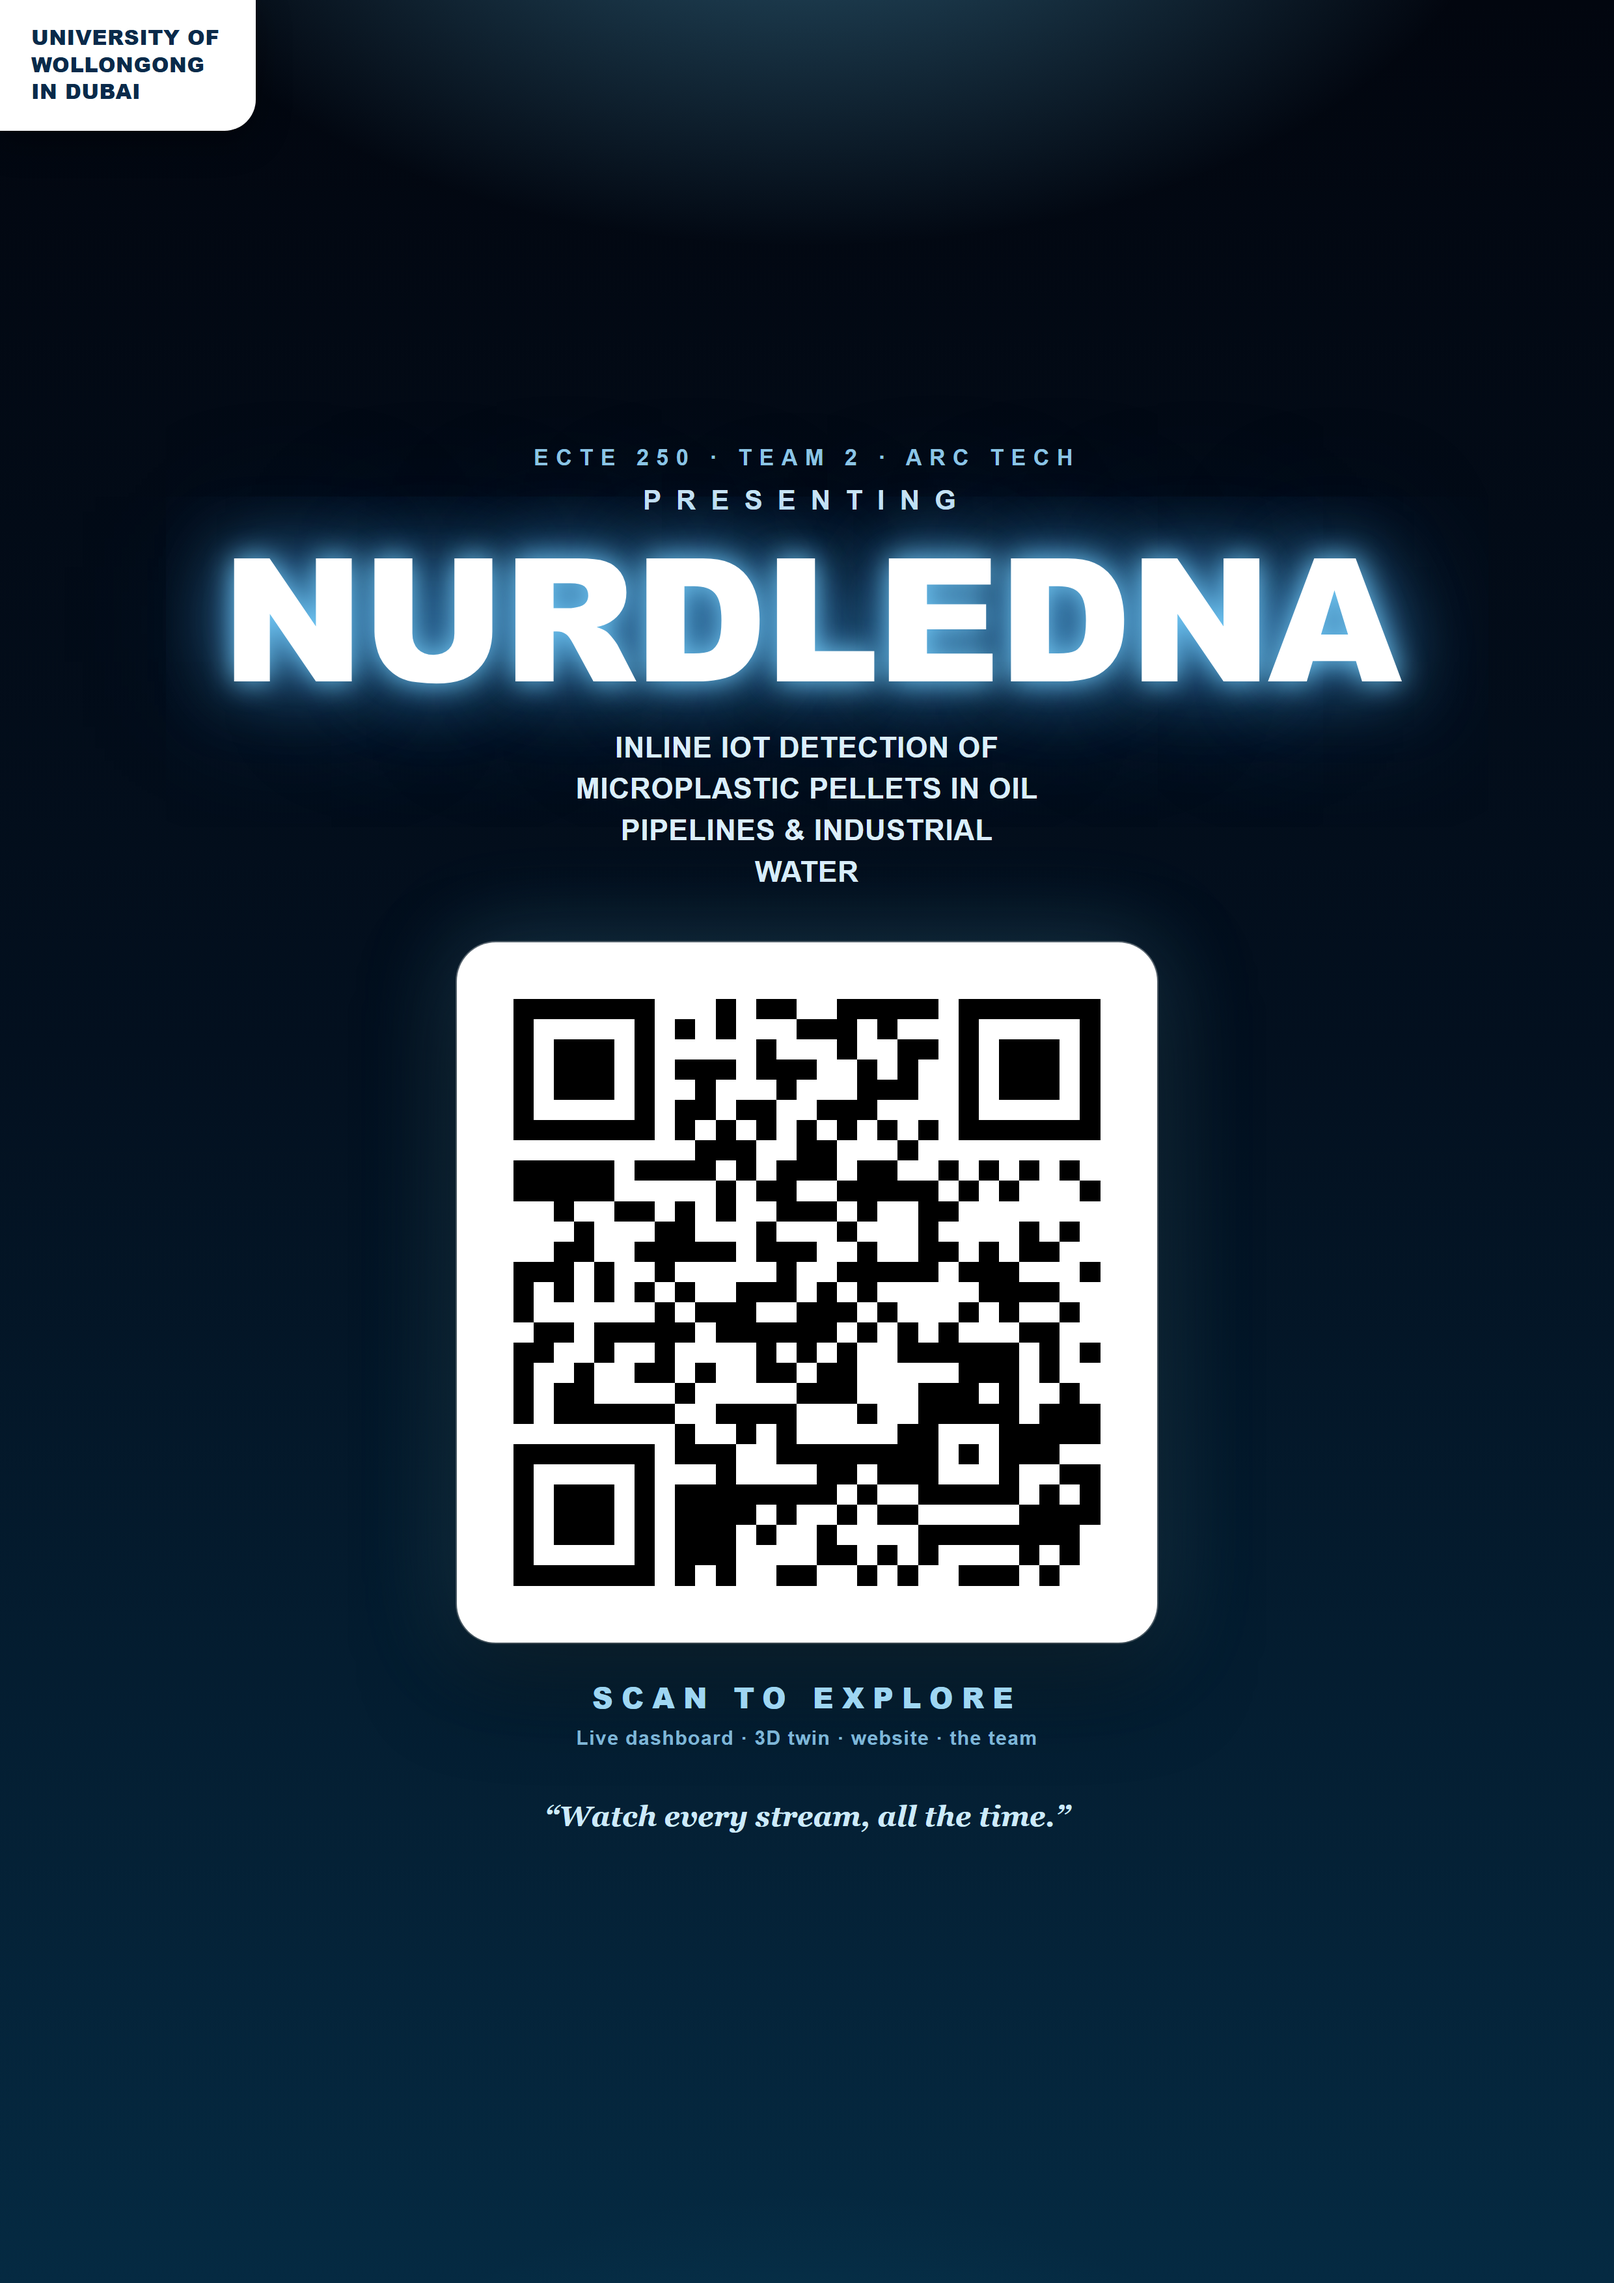
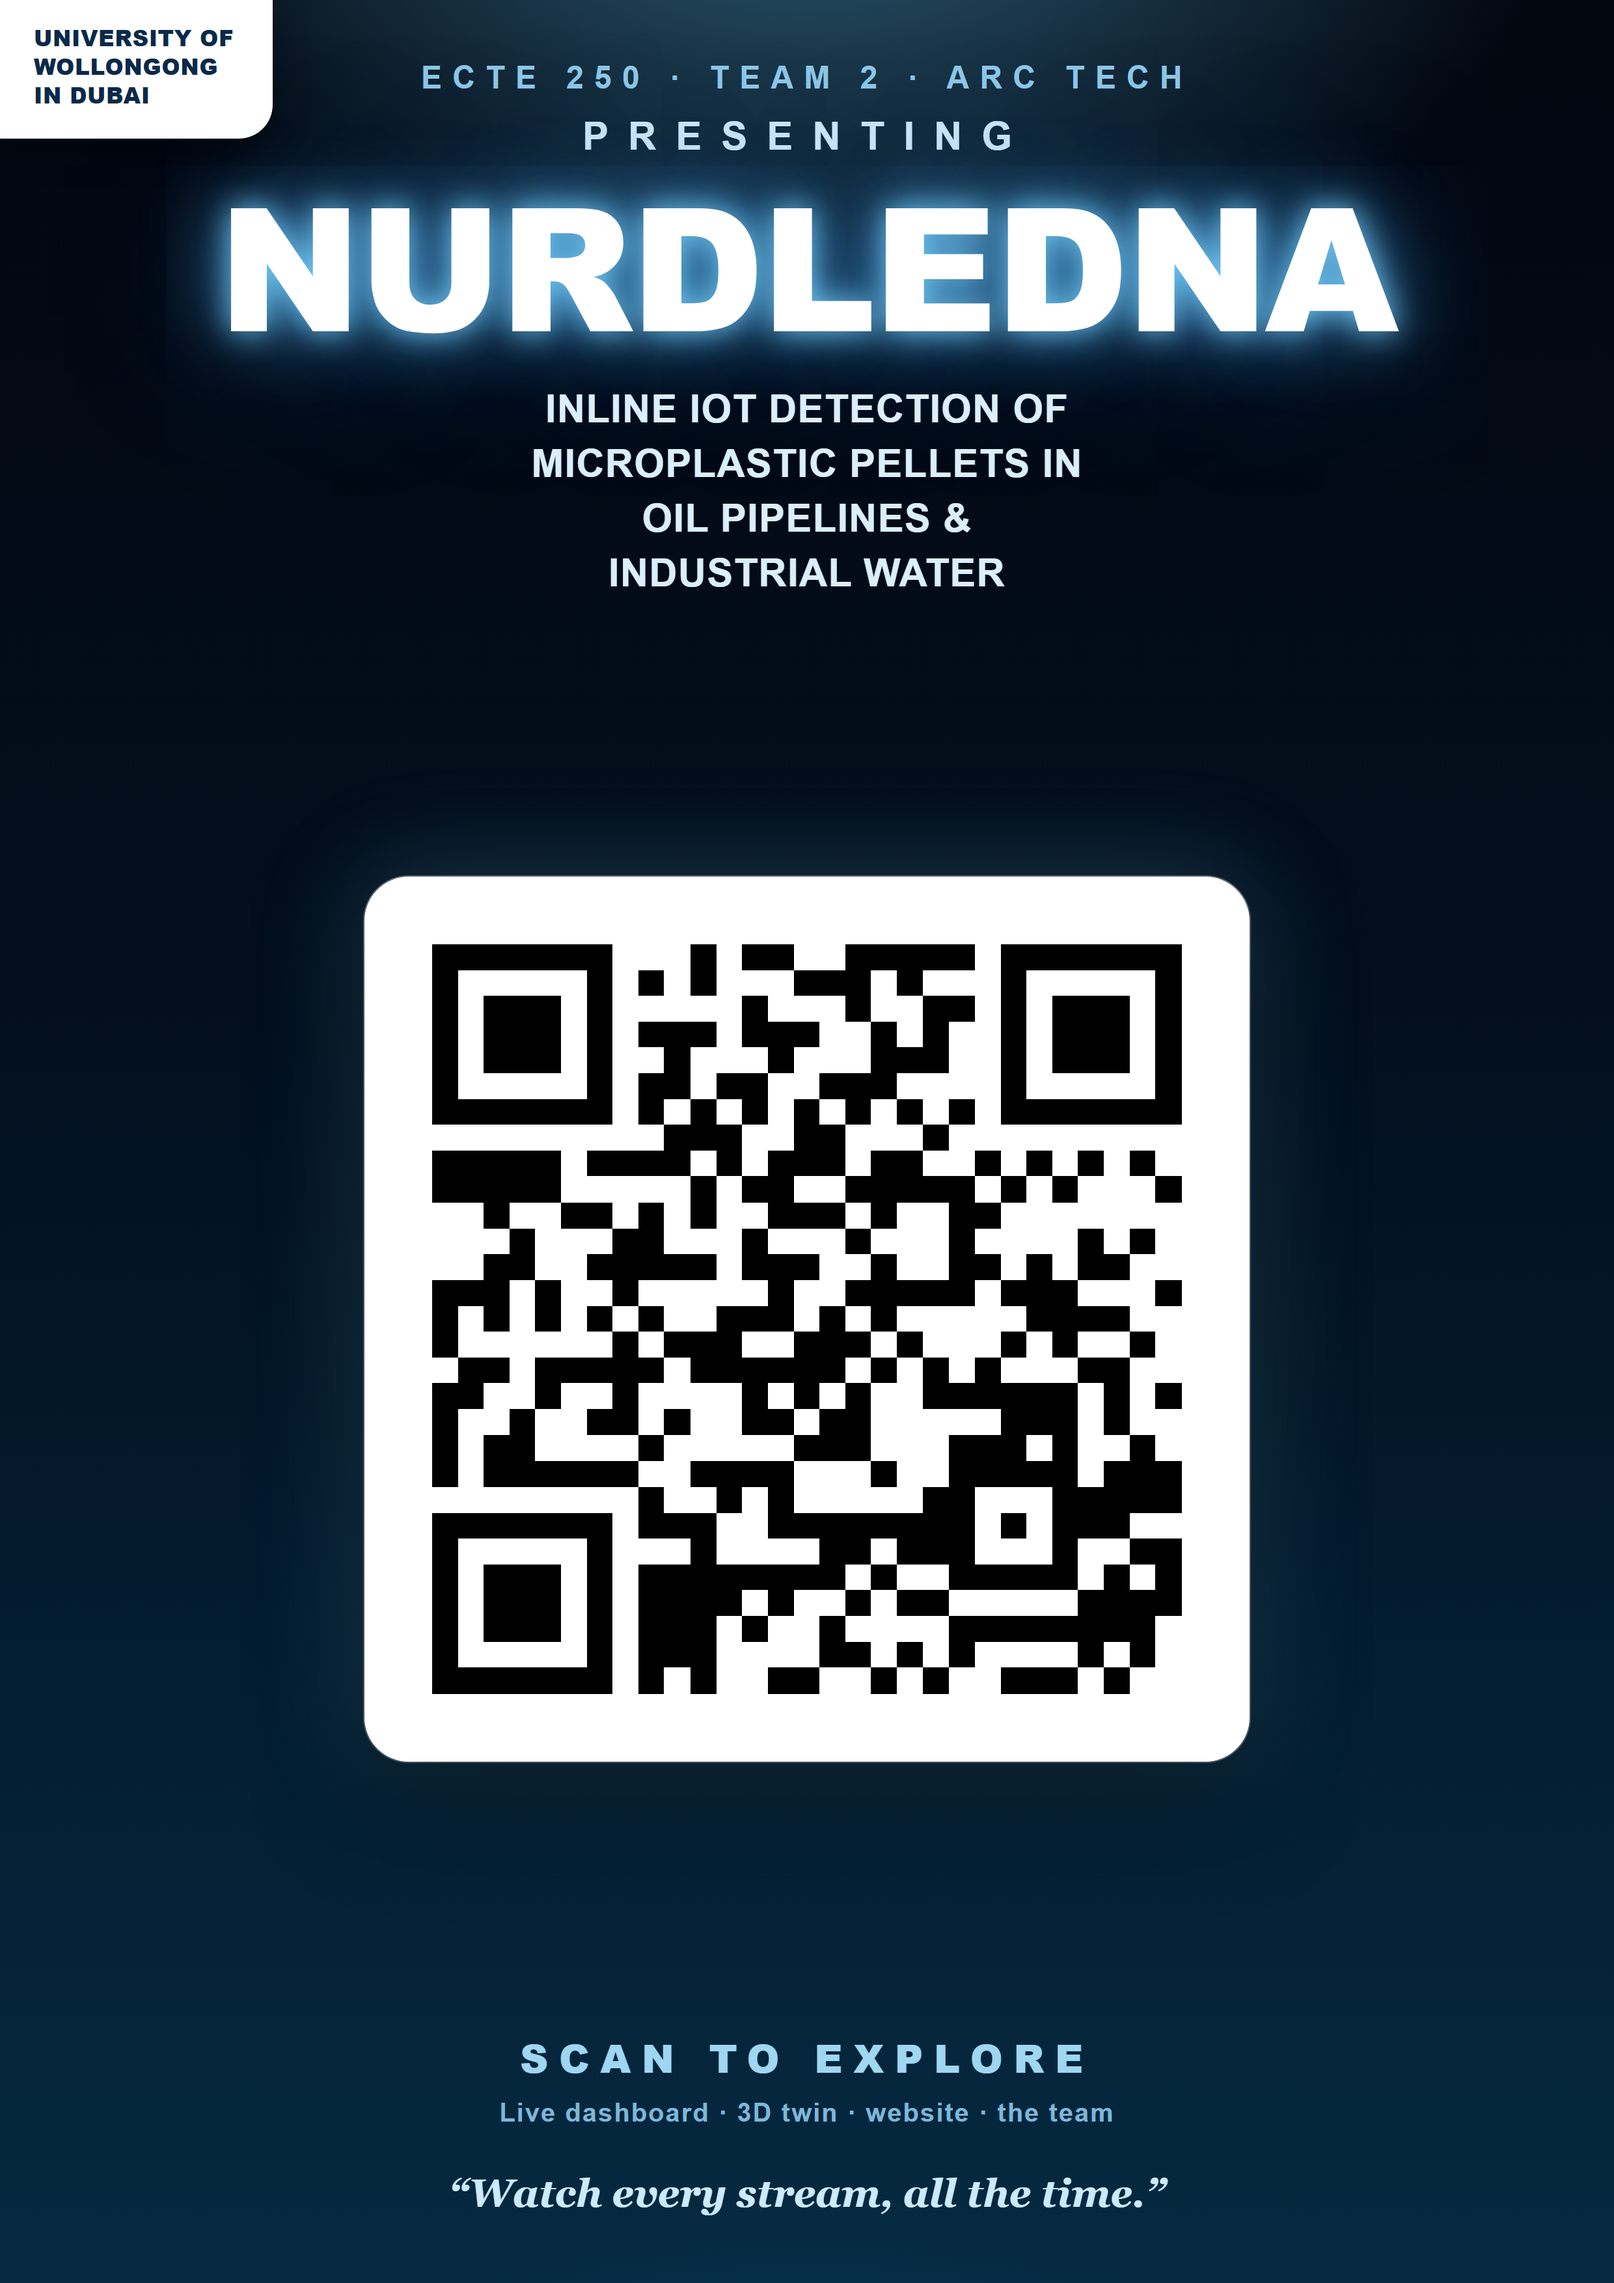
assets(posters): scale QR card to fill the page (larger QR + text)

diff --git a/Posters/qr-poster.html b/Posters/qr-poster.html
@@ -12,47 +12,55 @@
     -webkit-print-color-adjust: exact; print-color-adjust: exact;
     color:#eaf6ff;
     background:
-      radial-gradient(1000px 600px at 50% -8%, rgba(96,196,240,.45), transparent 55%),
-      radial-gradient(820px 760px at 50% 122%, rgba(28,120,150,.30), transparent 60%),
+      radial-gradient(1050px 640px at 50% -6%, rgba(96,196,240,.45), transparent 56%),
+      radial-gradient(880px 820px at 50% 124%, rgba(28,120,150,.30), transparent 60%),
       linear-gradient(180deg, #02060f 0%, #03101f 46%, #052a42 100%);
     display:flex; align-items:center; justify-content:center;
-    min-height:100vh; padding:40px 26px;
+    min-height:100vh; padding:48px 28px;
   }
   .uow {
     position:absolute; top:0; left:0;
     background:#fff; color:#0a2a4a;
-    padding:18px 28px 20px 24px; border-radius:0 0 24px 0;
-    font:800 16px/1.3 Arial, sans-serif; letter-spacing:.02em; text-transform:uppercase; text-align:left;
+    padding:18px 30px 22px 26px; border-radius:0 0 26px 0;
+    font:800 17px/1.3 Arial, sans-serif; letter-spacing:.02em; text-transform:uppercase; text-align:left;
     box-shadow:0 8px 26px rgba(0,0,0,.35);
   }
-  .card { width:100%; max-width:900px; text-align:center; }
-  .eyebrow { font:700 17px/1 Arial; letter-spacing:.34em; color:#8fc7e6; text-transform:uppercase; margin-bottom:14px; }
-  .presenting { font:700 21px/1 Arial; letter-spacing:.55em; color:#cfe8f6; text-transform:uppercase; margin-bottom:16px; }
+  .card {
+    width:100%; max-width:940px; min-height: calc(100vh - 96px);
+    display:flex; flex-direction:column; justify-content:space-between; align-items:center;
+    text-align:center;
+  }
+  .eyebrow { font:700 24px/1 Arial; letter-spacing:.34em; color:#8fc7e6; text-transform:uppercase; margin-bottom:18px; }
+  .presenting { font:700 30px/1 Arial; letter-spacing:.5em; color:#cfe8f6; text-transform:uppercase; margin-bottom:22px; }
   .wordmark {
     font-family:"Arial Black", Inter, sans-serif; font-weight:900;
     font-size: clamp(64px, 13vw, 132px); letter-spacing:-2px; line-height:.92; color:#fff;
     white-space:nowrap;
-    text-shadow: 0 0 22px rgba(120,210,255,.95), 0 0 56px rgba(80,180,255,.7), 0 0 110px rgba(60,150,230,.5);
+    text-shadow: 0 0 24px rgba(120,210,255,.95), 0 0 60px rgba(80,180,255,.7), 0 0 120px rgba(60,150,230,.5);
   }
-  .subtitle { font:700 22px/1.45 Arial; letter-spacing:.02em; color:#dbeefb; text-transform:uppercase; margin:26px auto 38px; max-width:30ch; }
+  .subtitle { font:700 30px/1.4 Arial; letter-spacing:.02em; color:#dbeefb; text-transform:uppercase; margin:30px auto 0; max-width:26ch; }
   .qr-panel {
-    background:#fff; border-radius:30px; padding:34px; display:inline-block;
-    box-shadow:0 26px 70px rgba(0,0,0,.55), 0 0 0 1px rgba(255,255,255,.35), 0 0 70px rgba(96,196,240,.28);
+    background:#fff; border-radius:34px; padding:40px; display:inline-block;
+    box-shadow:0 28px 80px rgba(0,0,0,.55), 0 0 0 1px rgba(255,255,255,.35), 0 0 80px rgba(96,196,240,.30);
   }
-  .qr-panel img { display:block; width:470px; height:470px; image-rendering:pixelated; }
-  .scan { margin-top:26px; font:800 22px/1 Arial; letter-spacing:.30em; color:#9fd6f2; text-transform:uppercase; }
-  .scan small { display:block; font:600 15px/1.5 Arial; letter-spacing:.05em; color:#7fb6d6; margin-top:9px; text-transform:none; }
-  .tagline { margin-top:34px; font:italic 600 22px/1.4 Georgia, serif; color:#cdeafa; }
+  .qr-panel img { display:block; width:600px; height:600px; image-rendering:pixelated; }
+  .scan { font:800 30px/1 Arial; letter-spacing:.28em; color:#9fd6f2; text-transform:uppercase; }
+  .scan small { display:block; font:600 20px/1.5 Arial; letter-spacing:.05em; color:#7fb6d6; margin-top:12px; text-transform:none; }
+  .tagline { margin-top:26px; font:italic 600 30px/1.4 Georgia, serif; color:#cdeafa; }
 </style></head>
 <body>
   <div class="uow">University&nbsp;of<br>Wollongong<br>in&nbsp;Dubai</div>
   <div class="card">
-    <div class="eyebrow">ECTE&nbsp;250 &middot; Team&nbsp;2 &middot; Arc&nbsp;Tech</div>
-    <div class="presenting">Presenting</div>
-    <div class="wordmark">NURDLEDNA</div>
-    <div class="subtitle">Inline IoT detection of microplastic pellets in oil pipelines &amp; industrial water</div>
+    <div class="grp">
+      <div class="eyebrow">ECTE&nbsp;250 &middot; Team&nbsp;2 &middot; Arc&nbsp;Tech</div>
+      <div class="presenting">Presenting</div>
+      <div class="wordmark">NURDLEDNA</div>
+      <div class="subtitle">Inline IoT detection of microplastic pellets in oil pipelines &amp; industrial water</div>
+    </div>
[1 lines of base64/hex data omitted]
-    <div class="scan">Scan to explore<small>Live dashboard &middot; 3D twin &middot; website &middot; the team</small></div>
-    <div class="tagline">&ldquo;Watch every stream, all the time.&rdquo;</div>
+    <div class="grp">
+      <div class="scan">Scan to explore<small>Live dashboard &middot; 3D twin &middot; website &middot; the team</small></div>
+      <div class="tagline">&ldquo;Watch every stream, all the time.&rdquo;</div>
+    </div>
   </div>
 </body></html>
